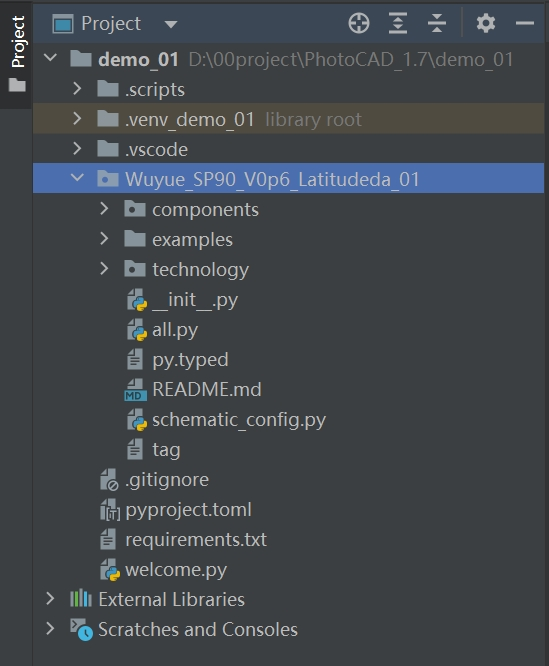
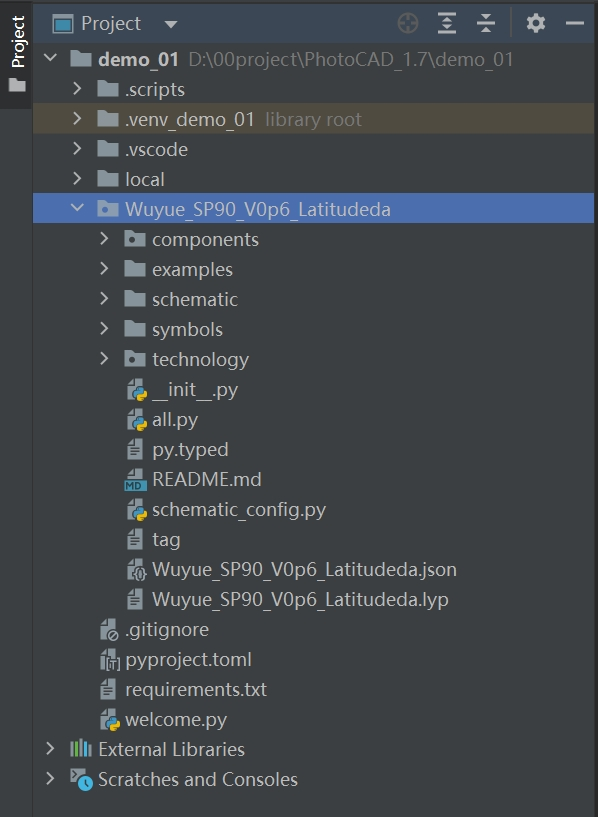
add ASDL

Changed region(s): [[0.0, 0.0, 1.0, 0.991], [0.867, 0.0, 0.9599, 0.0901], [0.9909, 0.0, 1.0, 0.0601]]

diff --git a/docs/source/source/quick_start/ASDL.rst b/docs/source/source/quick_start/ASDL.rst
@@ -1,0 +1,55 @@
+AdvancedSDL
+=======================================
+
+Import Wuyue SP90 PDK into AdvancedSDL
+*******************************************
+
+Copy the Wuyue SP90 PDK folder to the **AdvancedSDL** installation path: ``...\AdvancedSDL\Python\Lib\site-packages``. It can also be placed in other paths that do not contain special symbols such as Chinese characters and Spaces, so that python does not fail to identify the path.
+
+.. image:: ../images/ASDL_0.png
+
+Click ``PDK`` on the top toolbar of **AdvancedSDL** and select ``Open PDK Symbol Design``.
+
+.. image:: ../images/ASDL_1.png
+
+Locate and select the ``Wuyue`` PDK folder.
+
+.. image:: ../images/ASDL_2.png
+
+After the import is complete, you will see the ``Wuyue`` PDK component library on the left.
+
+.. image:: ../images/ASDL_3.png
+
+Click ``File`` and then click ``New Project``.
+
+.. image:: ../images/ASDL_4.png
+
+Enter the project name and path, select ``Wuyue`` PDK in the PDK column, and click ``Save``.
+
+.. image:: ../images/ASDL_5.png
+
+Wait for the contents of ``Import Wuyue_SP90_V0p6_Latitudeda pdk symbols succeed`` to appear in the output.
+
+.. image:: ../images/ASDL_6.png
+
+Right-click on the ``circuits`` of the project, click ``New Circuit``, type ``circuit name`` and click ``Save``.
+
+.. image:: ../images/ASDL_7.png
+
+Drag components to the center region. Click on the component, the parameters of the component can be adjusted on the right side.
+
+.. image:: ../images/ASDL_8.png
+
+Once the parameters are set, connect the ports to route the components and click SDL in the upper right.
+
+.. image:: ../images/ASDL_10.png
+
+The corresponding layout is displayed in the ``Layout View``. And it generates python layout code called ``Generated-Script.py``, which can be run and used in **PhotoCAD**.
+
+.. image:: ../images/ASDL_11.png
+
+The ``Generated-Script.py`` can be run in **PhotoCAD** and modified to create a new layout. The script is saved in the project's Temp folder.
+
+.. image:: ../images/ASDL_12.png
+
+You can also easily import a specific component to **AdvancedSDL** on **PhotoCAD** using ``fp.export_schematic``. See ``gpdk > examples`` for more information.

diff --git a/docs/source/source/quick_start/PhotoCAD.rst b/docs/source/source/quick_start/PhotoCAD.rst
@@ -53,13 +53,13 @@ Import Wuyue SP90 PDK into PhotoCAD
 
 First, make sure that the Wuyue SP90 PDK version matches the version of **PhotoCAD**. The version of **PhotoCAD** can be obtained in ``Run`` by running scripts in **PhotoCAD**.
 
-Extract the ``Wuyue_SP90_V0p6_Latitudeda_01`` zip archive and copy it to the workspace folder. As shown in the figure below, the ``Wuyue_SP90_V0p6_Latitudeda_01`` folder is in the demo folder and parallel to .vene_demo.
+Extract the ``Wuyue_SP90_V0p6_Latitudeda`` zip archive and copy it to the workspace folder. As shown in the figure below, the ``Wuyue_SP90_V0p6_Latitudeda`` folder is in the demo folder and parallel to .vene_demo.
 
 .. image:: ../images/PhotoCAD_6.png
 
-It's important to note that the PDK folder structure is the same as in the figure. Subfolders such as ``components`` and ``examples`` should be seen when expanding the ``Wuyue_SP90_V0p6_Latitudeda_01`` folder. Otherwise, the import path will be wrong when you run the code.
+It's important to note that the PDK folder structure is the same as in the figure. Subfolders such as ``components`` and ``examples`` should be seen when expanding the ``Wuyue_SP90_V0p6_Latitudeda`` folder. Otherwise, the import path will be wrong when you run the code.
 
-Open and run ``Wuyue_SP90_V0p6_Latitudeda_01/examples/tech_test.py``. PDK will be imported successfully if there are no errors and ``tech_test.py.gds`` will be exported.
+Open and run ``Wuyue_SP90_V0p6_Latitudeda/examples/tech_test.py``. PDK will be imported successfully if there are no errors and ``tech_test.py.gds`` will be exported.
 
 .. image:: ../images/PhotoCAD_7.png
 

diff --git a/docs/source/source/intro/install_photocad.rst b/docs/source/source/intro/install_photocad.rst
@@ -3,6 +3,6 @@ Install PhotoCAD and Wuyue SP90 PDK
 
 Once Python and Pycharm are installed, you can follow the instructions to install **PhotoCAD** via **PIC Studio**. After installation, we will find the completed **fnpcell** and **gpdk** packages in ``Lib>site-packages``. **fnpcell** is the main package of **PhotoCAD**, which is used for parametric layout component scripts and layout routing scripts. **gpdk** is a collection of all examples in **PhotoCAD**. It contains both component cell layout scripts and other design templates based on parametric component cells.
 
-To install Wuyue SP90 PDK package to **PhotoCAD**, extract ``Wuyue_SP90_V0p6_Latitudeda_01.zip`` to the project folder.
+To install Wuyue SP90 PDK package to **PhotoCAD**, extract ``Wuyue_SP90_V0p6_Latitudeda.zip`` to the project folder.
 
 .. image:: ../images/install.png

diff --git a/docs/source/source/structure/index.rst b/docs/source/source/structure/index.rst
@@ -3,7 +3,7 @@ PDK structure
 
 Process Design Kit (PDK) is a tool for designated users to generate circuit layouts based on Wuyue SP90 design rules and technology settings.
 
-``Wuyue_SP90_V0p6_Latitudeda_01`` package includes three subfolders: ``components``, ``examples``, and ``technology``.
+``Wuyue_SP90_V0p6_Latitudeda`` package includes three subfolders: ``components``, ``examples``, and ``technology``.
 
 * ``components``
 
@@ -21,3 +21,8 @@ Process Design Kit (PDK) is a tool for designated users to generate circuit layo
 
     * See chapter ``Technology setting`` for more specific definition.
 
+* ``Wuyue_SP90_V0p6_Latitudeda.lyp``
+
+    * This file allows layout tools e.g. Klayout to recognize the layer information when displaying gds file to the layout tool.
+
+    .. image:: ../images/lyp.png

diff --git a/docs/source/source/quick_start/index.rst b/docs/source/source/quick_start/index.rst
@@ -5,9 +5,7 @@ Quick Start
    :hidden:
 
    PhotoCAD
-
-
-
+   ASDL
 
 
 
